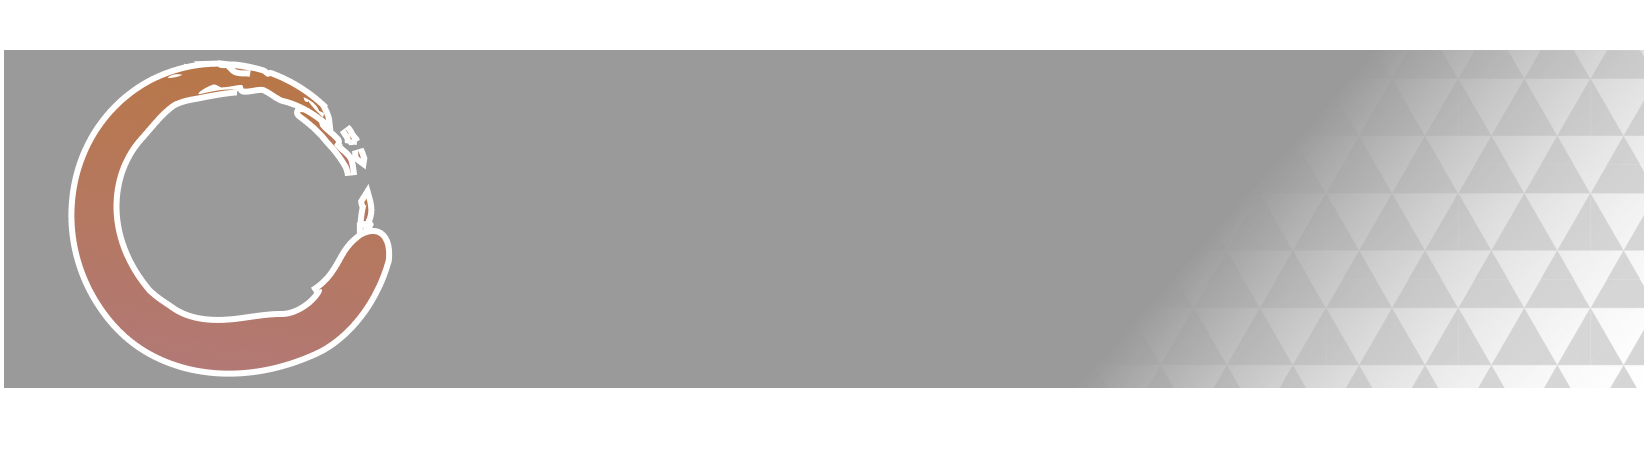
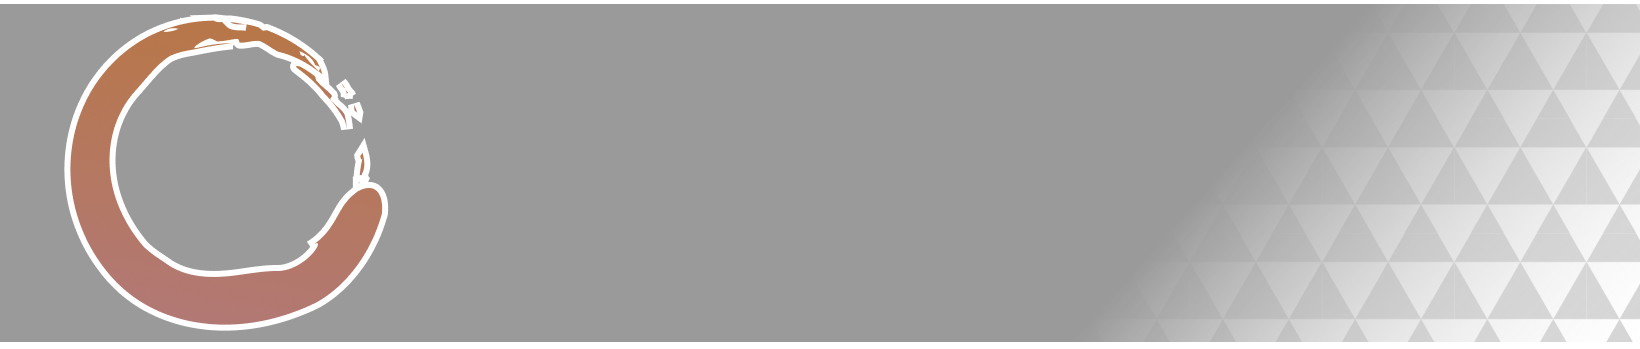
Fix Setup CSS

Changed region(s): [[0.0, 0.0, 1.0, 1.0], [0.964, 0.2579, 1.0, 0.3725], [0.9951, 0.4871, 1.0, 0.5158]]

diff --git a/src/graphics/css/setup.css b/src/graphics/css/setup.css
@@ -9,69 +9,65 @@
   position: absolute;
   width: 237px;
   height: 237px;
-  left: 77px;
+  left: 86px;
   top: 80px;
-  background: url(./../images/common/fushi_logo.png);
-  background-size: contain;
-  background-repeat: no-repeat;
+  background: url(./../images/common/fushi_logo.png) no-repeat center / contain;
+}
+
+.runner {
+  overflow-wrap: anywhere;
+  word-break: keep-all;
 }
 
 .setup_box_1 {
   position: absolute;
-  left: 506px;
+  left: 504px;
   top: 123px;
-  width: 1249px;
-  height: 332px;
+  width: 1260px;
+  height: 335px;
   background: url(./../images/setup/setup_first.png);
   background-size: contain;
-}
-
-.setup_box_2 {
-  position: absolute;
-  left: 935px;
-  top: 449px;
-  width: 820px;
-  height: 269px;
-  background: url(./../images/setup/setup_second.png);
-  background-size: contain;
-  background-position: center;
-  background-repeat: no-repeat;
-}
-
-.setup_box_3 {
-  position: absolute;
-  left: 935px;
-  top: 644px;
-  width: 820px;
-  height: 269px;
-  background: url(./../images/setup/setup_second.png);
-  background-size: contain;
-  background-position: center;
-  background-repeat: no-repeat;
+  display: flex;
+  align-items: center;
+  padding: 24px 32px 22px 41px;
+  gap: 32px;
 }
 
 .detail span {
   opacity: 0;
-  transition: 1s;
+  transition: .8s;
   position: absolute;
+  top: 0;
+  left: 0;
+  transform: translateX(24px);
+  display: flex;
+  align-items: center;
+  height: 100%;
 }
 
 .detail span.active {
   opacity: 1;
+  transform: translateX(0px);
+}
+
+.setup_box_1 .title_box {
+  flex: 0 0 611px;
 }
 
 .setup_box_1 .title {
   font-size: 48px;
-  line-height: 60px;
+  line-height: 1.25;
   color: rgba(255, 255, 255, 1);
   font-weight: 900;
   font-family: "M PLUS 1", sans-serif;
-  width: 611px;
-  height: 180px;
+  width: 100%;
   display: block;
-  position: absolute;
-  left: 40px;
-  top: 30px;
+  overflow-wrap: anywhere;
+  word-break: keep-all;
+}
+
+.setup_box_1 .title.-isLong {
+  word-break: normal;
 }
 
 .setup_box_1 .runner {
@@ -80,12 +76,13 @@
   color: rgba(255, 255, 255, 1);
   font-weight: 700;
   font-family: "M PLUS 1", sans-serif;
-  width: 611px;
-  height: 180px;
+  /*width: 611px;*/
+  /*height: 180px;*/
   display: block;
-  position: absolute;
+  /*position: absolute;*/
   left: 40px;
   top: 220px;
+  margin-top: 12px;
 }
 
 .setup_box_1 .detail {
@@ -94,42 +91,57 @@
   color: rgba(255, 255, 255, 1);
   font-weight: 700;
   font-family: "M PLUS 1", sans-serif;
-  width: 541px;
-  height: 280px;
   display: block;
+  flex: 1 0 541px;
+  height: 100%;
+  position: relative;
+}
+
+
+.setup_box_2,
+.setup_box_3 {
   position: absolute;
-  left: 680px;
-  top: 30px;
+  left: 943px;
+  width: 820px;
+  height: 175px;
+  background: url(./../images/setup/setup_second.png) no-repeat center / contain;
+  display: flex;
+  align-items: center;
+}
+
+.setup_box_2 {
+  top: 487px;
+}
+
+.setup_box_3 {
+  top: 680px;
+}
+
+.next_title {
+  padding-left: 230px;
 }
 
 .setup_box_2 .title,
 .setup_box_3 .title {
   font-size: 30px;
-  line-height: 37px;
+  line-height: 1.25;
   color: rgba(255, 255, 255, 1);
   font-weight: 900;
   font-family: "M PLUS 1", sans-serif;
-  width: 572px;
-  height: 78px;
   display: block;
-  position: absolute;
-  left: 222px;
-  top: 65px;
+  overflow-wrap: anywhere;
+  word-break: keep-all;
 }
 
 .setup_box_2 .runner,
 .setup_box_3 .runner {
   font-size: 22px;
-  line-height: 29px;
+  line-height: 1.25;
   color: rgba(255, 255, 255, 1);
   font-weight: 700;
   font-family: "M PLUS 1", sans-serif;
-  width: 572px;
-  height: 58px;
   display: block;
-  position: absolute;
-  left: 222px;
-  top: 145px;
+  margin-top: 8px;
 }
 
 .setup_box_2 .next_time_box,
@@ -156,7 +168,7 @@
   font-size: 24px;
   line-height: 35px;
   text-shadow: 2px 2px 0 #fff, -2px -2px 0 #fff, -2px 2px 0 #fff,
-    2px -2px 0 #fff, 0px 2px 0 #fff, 0-2px 0 #fff, -2px 0 0 #fff, 2px 0 0 #fff;
+    2px -2px 0 #fff, 0 2px 0 #fff, 0-2px 0 #fff, -2px 0 0 #fff, 2px 0 0 #fff;
 }
 
 .setup_box_2 .next_time span,
@@ -165,7 +177,7 @@
   font-size: 38px;
   line-height: 55px;
   text-shadow: 3px 3px 0 #fff, -3px -3px 0 #fff, -3px 3px 0 #fff,
-    3px -3px 0 #fff, 0px 3px 0 #fff, 0-3px 0 #fff, -3px 0 0 #fff, 3px 0 0 #fff;
+    3px -3px 0 #fff, 0 3px 0 #fff, 0-3px 0 #fff, -3px 0 0 #fff, 3px 0 0 #fff;
 }
 
 .footer {
@@ -217,6 +229,22 @@
   height: 65px;
   position: absolute;
   left: -20px;
+  animation: roll 20s linear infinite;
+}
+
+
+@keyframes roll {
+  0% {
+    transform: rotate(0deg);
+  }
+
+  50% {
+    transform: rotate(180deg)
+  }
+
+  100% {
+    transform: rotate(360deg)
+  }
 }
 
 .x_icon {
@@ -260,8 +288,8 @@
   position: fixed;
   width: 1920px;
   height: 125px;
-  left: 0px;
-  top: 0px;
+  left: 0;
+  top: 0;
   transition: 1s;
   background: rgba(220, 166, 0, 1);
   border-bottom: 16px solid rgba(25, 25, 25, 1);

diff --git a/src/graphics/components/SetupSchedule/UpnextSchedule.vue b/src/graphics/components/SetupSchedule/UpnextSchedule.vue
@@ -1,6 +1,6 @@
 <!-- eslint-disable max-len -->
 <script setup lang="ts">
-import { ref, computed } from 'vue';
+import { ref, computed, watch } from 'vue';
 import type { RunData } from '@mysrtafes2024-layouts/types/schemas/speedcontrol';
 import { useSetupInformation } from '@mysrtafes2024-layouts/composable';
 
@@ -27,16 +27,53 @@ setInterval(() => {
   displaySetupInformation.value = (displaySetupInformation.value + 1) % length;
 }, 20000);
 
+/**
+ * タイトル文字改行切り替え対応
+ */
+const titleClass = ref('');
+let observer: ResizeObserver | null = null;
+// クラス変更フラグ
+let isChangingClass = false;
+
+// props.runData の変化を監視
+watch(() => props.runData, (newVal, oldVal) => {
+  const titleElement = document.querySelector('.title');
+  titleClass.value = '';
+
+  if (titleElement && newVal !== oldVal) {
+    if (observer) observer.disconnect(); // 前回の監視を停止
+
+    // 新たに監視を開始
+    observer = new ResizeObserver((entries) => {
+      entries.forEach((entry) => {
+        if (entry.target === titleElement) {
+          if (isChangingClass) {
+            isChangingClass = false;
+          } else if (entry.contentRect.height > 180) {
+            isChangingClass = true;
+            titleClass.value = '-isLong';
+          } else {
+            titleClass.value = '';
+          }
+        }
+      });
+    });
+
+    observer.observe(titleElement);
+  }
+});
 </script>
 
 <template>
   <div class="setup_box_1">
-    <span class="title">
-      {{ runData?.game }}
-    </span>
-    <span class="runner">
-      {{ runData?.category }} / Runner : {{ runners }}
-    </span>
+    <div class="title_box">
+      <span class="title" :class="titleClass">
+        {{ runData?.game }}
+      </span>
+        <span class="runner">
+        {{ runData?.category }} / Runner : {{ runners }}
+      </span>
+    </div>
     <span class="detail">
       <span
         v-for="(information, index) in setupInformationArray?.data"

diff --git a/src/graphics/components/SetupSchedule/OndeckSchedule.vue b/src/graphics/components/SetupSchedule/OndeckSchedule.vue
@@ -36,11 +36,13 @@ const minutes = computed(() => (Math.floor(props.upcomingStartInSeconds / 60) % 
         <span>{{ minutes }}</span>分後
       </p>
     </div>
-    <span class="title">
-      {{ runData?.game }}
-    </span>
-    <span class="runner">
-      {{ runData?.category }} / Runner : {{ runners }}
-    </span>
+    <div class="next_title">
+      <span class="title">
+        {{ runData?.game }}
+      </span>
+      <span class="runner">
+        {{ runData?.category }} / Runner : {{ runners }}
+      </span>
+    </div>
   </div>
 </template>
